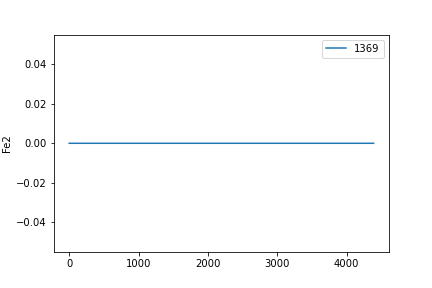
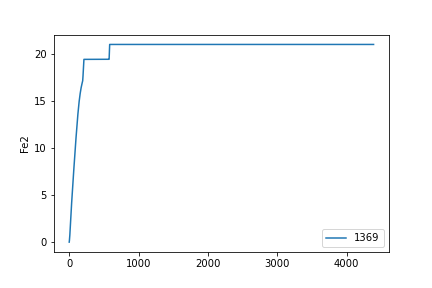
Thermodynamik läuft schneller

diff --git a/Thermomicrobentest.py b/Thermomicrobentest.py
@@ -28,32 +28,42 @@ def thermodynamics_Ferm(product_dict, microbe_dict):
     KmA = microbe_dict['KmA_Ferm']
     # print('Fermentations ',1- Acetate/(KmA + Acetate))
     # input('...')
+    
     return 1- Acetate/(KmA + Acetate)
 
 
-def thermodynamics(educt_dict, product_dict):
+def thermodynamics(educt_dict, product_dict, microbe_dict):
     #return 1
     # print('thermononfermo')
     # print(educt_dict)
     # print(product_dict)
     # input()
-    
-    educt_concentrations = [educt['concentration'] for educt in educt_dict.values()]
-    educt_stoichiometries = [educt['Stoch'] for educt in educt_dict.values()]
-    
-    product_concentrations = [product['concentration'] for product in product_dict.values()]
-    product_stoichiometries = [product['Stoch'] for product in product_dict.values()]
-    
-    Q_above = np.prod(np.power(product_concentrations, product_stoichiometries))
-    Q_below = np.prod(np.power(educt_concentrations, educt_stoichiometries))
-    
-    if Q_above <= 0 or Q_below <= 0:
-        return 1.0
+    print(microbe_dict['microbe'])
 
-    log_Q = np.log( Q_above/Q_below )
+    DGf_educt = 0
+    Q_educts = 1.0
+    for educt in educt_dict.values():
+        DGf_educt += educt['DGf']
+        Q_educts *= educt['concentration']**educt['Stoch']
+        
+    DGf_product = 0
+    Q_products = 1.0
+    for product in product_dict.values():
+        DGf_product += product['DGf']
+        Q_products *= product['concentration']**product['Stoch']
+
+    if Q_educts <= 0:
+      # print('Q educts = 0, return 0.0')
+       return 0.0#, 0.0
+   
+    if Q_products <= 0:
+        #print('Q = 0 for products, return 1')
+        return 1.0#, 0.0
+
+    log_Q = np.log( Q_products/Q_educts )
     
-    DGf_educt = np.sum([educt['DGf'] for educt in educt_dict.values()])
-    DGf_product = np.sum([product['DGf'] for product in product_dict.values()])
+    # DGf_educt = np.sum(np.array([educt['DGf'] for educt in educt_dict.values()]))
+    # DGf_product = np.sum([product['DGf'] for product in product_dict.values()])
     DGs = DGf_product - DGf_educt
     
     R = 8.31446261815324 	# in J⋅K−1⋅mol−1
@@ -62,8 +72,14 @@ def thermodynamics(educt_dict, product_dict):
    # print('math.log(Q)', math.log(Q))
     DGr = DGs + R * T * log_Q
    # print('DGr', DGr)
+   
     DGmin = -26.0
-    return 1 - np.exp(np.minimum(0, DGr - DGmin)/(R*T))
+    if DGr > DGmin:
+        print('minimum not reached, return 0', DGr - DGmin)
+        return 0.0#, DGr
+    #print(DGr)
+    
+    return 1 - np.exp((DGr - DGmin)/(R*T))# , DGr
 
 def GeneralPathway(microbe_dict, educt_dict, product_dict, pathway_name = ''):
     """
@@ -109,16 +125,19 @@ def GeneralPathway(microbe_dict, educt_dict, product_dict, pathway_name = ''):
     
     #print('entering '+pathway_name)
     # input()
-    MM_factors = list()
+    #MM_factors = list()
+    MM_factors_total = 1.0
     for educt, edu_dict in educt_dict.items():  
         Concentration = edu_dict['concentration']
         substance_MM = Concentration/(edu_dict['Km'] + Concentration) if Concentration > 0 else 0
-        MM_factors.append(substance_MM)
+        #MM_factors.append(substance_MM)
+        MM_factors_total *= substance_MM
     # Note that for Ferm_help, Km must be 0 so that MM_factors evaluates to 1.0
-    MM_factors_total = np.prod(MM_factors)
+    #MM_factors_total = np.prod(np.array(MM_factors))
 #-------------------------------------------------------------------------------------------------------------
     # die tatsächliche Stoffwechselrate, gegeben die termodynamischen und kinetischen hindernisse
     Vmax = microbe_dict['Vmax']
+    DGr_Ausgabe = 0
     Biomass = microbe_dict['concentration']
     if 'Ferm' in microbe_dict and microbe_dict['Ferm']==True:
         thermodynamic_factor = thermodynamics_Ferm(product_dict, microbe_dict) #TODO Hier gehört die acetatehemmung 
@@ -130,7 +149,7 @@ def GeneralPathway(microbe_dict, educt_dict, product_dict, pathway_name = ''):
 
     else:
         #thermodynamic_factor = 1
-        thermodynamic_factor = thermodynamics(educt_dict, product_dict)
+        thermodynamic_factor = thermodynamics(educt_dict, product_dict, microbe_dict)
         MMB = Biomass  if Biomass > 0 else 0 
 
     
@@ -188,6 +207,7 @@ def GeneralPathway(microbe_dict, educt_dict, product_dict, pathway_name = ''):
     pool_change_dict['biomass'] = biomass_change
     # print(biomass_change)
     # input('biomass '+pathway_name)
+    #pool_change_dict['DGr'] = DGr_Ausgabe
     return pool_change_dict
 
 
@@ -290,7 +310,7 @@ def Fe3_Pathway(pool_dict,model_parameter_dict):
                     'growth_rate'   : model_parameter_dict['w_Fe3'], 
                     'death_rate'    : model_parameter_dict['Sensenmann'],
                     'microbe'       : 'M_Fe3'}
-    
+                    #'DGs'           : -109.45 }
     
     educt_dict =  {'Acetate'       : {'concentration':pool_dict['Acetate'],
                                     'Stoch'          : 1                  ,
@@ -305,15 +325,15 @@ def Fe3_Pathway(pool_dict,model_parameter_dict):
     
     product_dict = { 'Fe2' : {'concentration': pool_dict['Fe2'],
                               'Stoch'        : 8               ,
-                              'DGf'          : -78.9           }  ,
+                              'DGf'          : -89.1           }  ,#https://www.engineeringtoolbox.com/standard-state-enthalpy-formation-definition-value-Gibbs-free-energy-entropy-molar-heat-capacity-d_1978.html
                     
                      'CO2' : {'concentration': pool_dict['CO2'],
                               'Stoch'        : 2               ,
-                              'DGf'          :   0              }  , #TODO DIESE ZAHL IST FALSCH
+                              'DGf'          : -394.36                 }  , #Vaxa
                          
                       'H2' : {'concentration': pool_dict['H2'],
                               'Stoch'        : 0              ,
-                              'DGf'          :  0              }   }#TODO DIESE ZAHL IST FALSCH
+                              'DGf'          :  0              }   }
                                                                   
    
     pool_change_dict = GeneralPathway(microbe_dict, educt_dict, product_dict, 'Fe3')
@@ -337,6 +357,7 @@ def Hydro_Pathway(pool_dict,model_parameter_dict):
                     'growth_rate'   : model_parameter_dict['w_Hydro']   , 
                     'death_rate'    : model_parameter_dict['Sensenmann'],
                     'microbe'       : 'M_Hydro'}
+                      #'DGs '       : 343.56 } # ja positiv
     
     educt_dict = { 'H2'  : {'concentration':pool_dict['H2']  ,
                             'Stoch'     : 4                  , 
@@ -351,7 +372,7 @@ def Hydro_Pathway(pool_dict,model_parameter_dict):
     
     product_dict = {'CH4' :{'concentration': pool_dict['CH4'] ,
                             'Stoch'        : 1                ,
-                            'DGf'          : -50.72}          }
+                            'DGf'          : -50.8}          }
    
     
     pool_change_dict = GeneralPathway(microbe_dict, educt_dict, product_dict, 'Hydro')
@@ -372,6 +393,7 @@ def Homo_Pathway(pool_dict,model_parameter_dict):
                     'growth_rate'   : model_parameter_dict['w_Homo']    , 
                     'death_rate'    : model_parameter_dict['Sensenmann'],
                     'microbe'       : 'M_Homo'}
+                    #'DGs'          : 25 }
     
     educt_dict = { 'H2'  : {'concentration':pool_dict['H2']        ,
                              'Stoch'       : 4                     ,
@@ -406,6 +428,7 @@ def Ac_Pathway(pool_dict,model_parameter_dict):
                     'growth_rate'   : model_parameter_dict['w_Ac'], 
                     'death_rate'    : model_parameter_dict['Sensenmann'],
                     'microbe'       : 'M_Ac'}
+                      #'DGs'        : -75.89 }
     
     educt_dict = { 'Acetate' : {'concentration':pool_dict['Acetate']    ,
                                 'Stoch'        :  1                     ,
@@ -415,11 +438,11 @@ def Ac_Pathway(pool_dict,model_parameter_dict):
                       
     product_dict = { 'CH4' : {'concentration': pool_dict['CH4'],
                               'Stoch'        : 1               ,
-                              'DGf'          : 186.26          },
+                              'DGf'          : -50.8          }, # wert aus Vaxa
                     
                      'CO2' : {'concentration': pool_dict['CO2'],
                               'Stoch'        : 1               ,
-                              'DGf'          :-394.36          } }
+                              'DGf'          :-394.36         } }
 
     
     pool_change_dict = GeneralPathway(microbe_dict, educt_dict, product_dict, 'Ac')

diff --git a/Thermorefactored.py b/Thermorefactored.py
@@ -363,23 +363,31 @@ def predictor(t, initial_pool_values, model_parameters):
   #  pool_curves = pool_curves.transpose()
    # pool_dict = dict(zip(pool_order, pool_curves))
 
+    method = 'LSODA'
     try:
-        pool_curves = integ.solve_ivp(cdec,
+        solver_result = integ.solve_ivp(cdec,
                                       (0, np.max(t)),
                                       initial_system_state,
-                                      method='LSODA',
-                                      t_eval = t)
+                                      method=method,
+                                      t_eval = t,
+                                      atol = 1e-2,
+                                      rtol = 1e-1)
         
     except Exception as ex:
         print('exception in odeint:')
         print(type(ex),':', str(ex))        
-        
     
     # input('stop here ')
     #print(pool_curves.t,pool_curves.y)
    # input('done')
     #print(type(pool_curves.y))
-    pool_dict = dict(zip(pool_order, pool_curves.y))
+    # print('')
+    # print(method +':')
+    # print('function evaluations', solver_result.nfev)
+    # print('jacobian evaluations', solver_result.njev)
+    # print('')
+
+    pool_dict = dict(zip(pool_order, solver_result.y))
     #print(pool_dict)
 
     #input('stop here ')
@@ -463,7 +471,7 @@ def plot_my_data(Realdata, days_for_plot, pool_value_dict, specimen_index):
     #     plt.savefig('C:/Users/Lara/Desktop/simple model/Figs/'+ pool_name +'_'+str(specimen_index)+ '.png') 
 
 
-   
+    plt.show()   
 
 
 def fit_my_model(specimens, Site, opt):
@@ -495,6 +503,7 @@ def fit_my_model(specimens, Site, opt):
         
         initial_guess_dict = get_initial_guesses()
 
+
         # scale parameters to allow better optimization
         initial_guess_dict = scale(initial_guess_dict)
         #fixed_quantities_dict = scale(fixed_quantities_dict)
@@ -504,11 +513,15 @@ def fit_my_model(specimens, Site, opt):
         initial_guess_array = [initial_guess_dict[key][0] for key in changeables_order]
         lower_bounds = [initial_guess_dict[key][1] for key in changeables_order]
         upper_bounds = [initial_guess_dict[key][2] for key in changeables_order]
+    
 
         # schreibe die werte, die zwar im initial_guess_dict definiert sind, 
         # aber trotzdem während der optimierung Festgehalten werden sollen, 
         # in das dict für die nicht mit-optimierten werte.
         fixed_quantities_dict.update({k:v[0] for k,v in initial_guess_dict.items() if not k in changeables_order})
+        
+        
+        # while True:
 
         # gemessene daten aus Realdata laden und zusammenhängen, um CO2 und CH4
         # gleichzeitig zu fitten.
@@ -534,10 +547,11 @@ def fit_my_model(specimens, Site, opt):
              initial_guess_bounds = list(zip(lower_bounds, upper_bounds))
              optimization_result = scipy.optimize.minimize(least_squares_error, 
                                                       initial_guess_array,
+                        
                                                       args = (fixed_quantities_dict, Realdata),
                                                       bounds= initial_guess_bounds,
-                                                      # method = 'Nelder-Mead',
-                                                      options = {'maxiter':2000,
+                                                      #method = 'Nelder-Mead',
+                                                      options = {'maxiter':20,
                                                                 'disp':True})
              print(optimization_result)
 
@@ -578,12 +592,17 @@ def fit_my_model(specimens, Site, opt):
 
         plot_my_data(Realdata, all_days, pool_value_dict, specimen_index)
         
+            # if input('repeat fit with new initial parameters or quit (type "q")').lower() == 'q':
+            #     break
+            # initial_guess_array = [changeables_optimal_dict[key] for key in changeables_order]
    
         
 def run_my_model(Cpool_init = 5555.5):
     plt.close('all')
     #print('run_my_model')
 
+    superdata, replica_list, superdata_carex, superdata_Kuru, superdata_Sam, replica_list_Kuru, replica_list_Sam,superdata_2021_all, replica_list_superdata_2021_all, superdata_ohne_Fe3, Rep_ohne_Fe3,superdata_mit_Fe3, Rep_mit_Fe3 = load_matlab()
+    
     # all pools, for which no value is speicified, will be initialized as empty
     
     #fixed_quantities_dict = dict()   
@@ -639,6 +658,15 @@ def run_my_model(Cpool_init = 5555.5):
    # print(pool_value_dict['C'])
    # input() 
    
+   
+   
+    #return None # exit before plotting to save time when profiling
+    plt.plot( superdata_2021_all['13690']['measured_time'],superdata_2021_all['13690']['CH4'],'ro')
+    plt.plot(pool_value_dict['CH4'])
+    plt.figure()
+    plt.plot( superdata_2021_all['13690']['measured_time'], superdata_2021_all['13690']['CO2'],'bo')
+    plt.plot(pool_value_dict['CO2'])
+   
     for k,v in pool_value_dict.items():
         plt.figure()
         plt.plot(all_days,v,'-')
@@ -689,9 +717,9 @@ if __name__ == '__main__':
     specimens = [10]
     
     #opt kann 'Min' sein für minimizer oder ' Curve' für Curve fit
-    fit_my_model(specimens, Site = "all", opt = 'Min')
+    #fit_my_model(specimens, Site = "all", opt = 'Min')
     
-    #run_my_model()
+    run_my_model()
 
 #%%
 

diff --git a/order.py b/order.py
@@ -21,14 +21,17 @@ pool_order = ['C',
             'H2',
             'CO2_Hydro',
             'CH4_Hydro',
-            #'H2_Ferm2',
-            #'M_Ferm2',
             'CO2_Ferm',
             'CO2_Fe3',
             'CO2_Homo',
             'H2_Homo',
             'H2_Hydro',
-            'Fe2']
+            'Fe2'#,
+            # 'DGr_Fe3',
+            # 'DGr_Hydro',
+            # 'DGr_Homo',
+            # 'DGr_Ac'
+            ]
 
 
 
@@ -82,7 +85,7 @@ parameter_units = {'Vmax_Ferm':'μmol/mg',
                    'Acetate':'μmol',
                    'H2':'μmol',
                    'CO2_Hydro':'μmol',
-                   'CH4_Hydro':'μmol',}
+                   'CH4_Hydro':'μmol'}
                   # 'H2_Ferm2':'μmol',
                    #'M_Ferm2':'mg'}
 
@@ -91,7 +94,7 @@ parameter_units = {'Vmax_Ferm':'μmol/mg',
 def get_fixed_quantities(): 
     fixed_quantities_dict = dict()        
     #fixed_quantities_dict['M_Ac'] = 0.2 # superdata_Kuru = 0.001
-    fixed_quantities_dict['M_Ferm'] =  0.2 #1.3e-07 #
+    fixed_quantities_dict['M_Ferm'] =  0.6 #1.3e-07 #
     fixed_quantities_dict['M_Fe3'] =0.2  # 0.2
     #fixed_quantities_dict['M_Ferm2'] = 0.2 # 0.2
     
